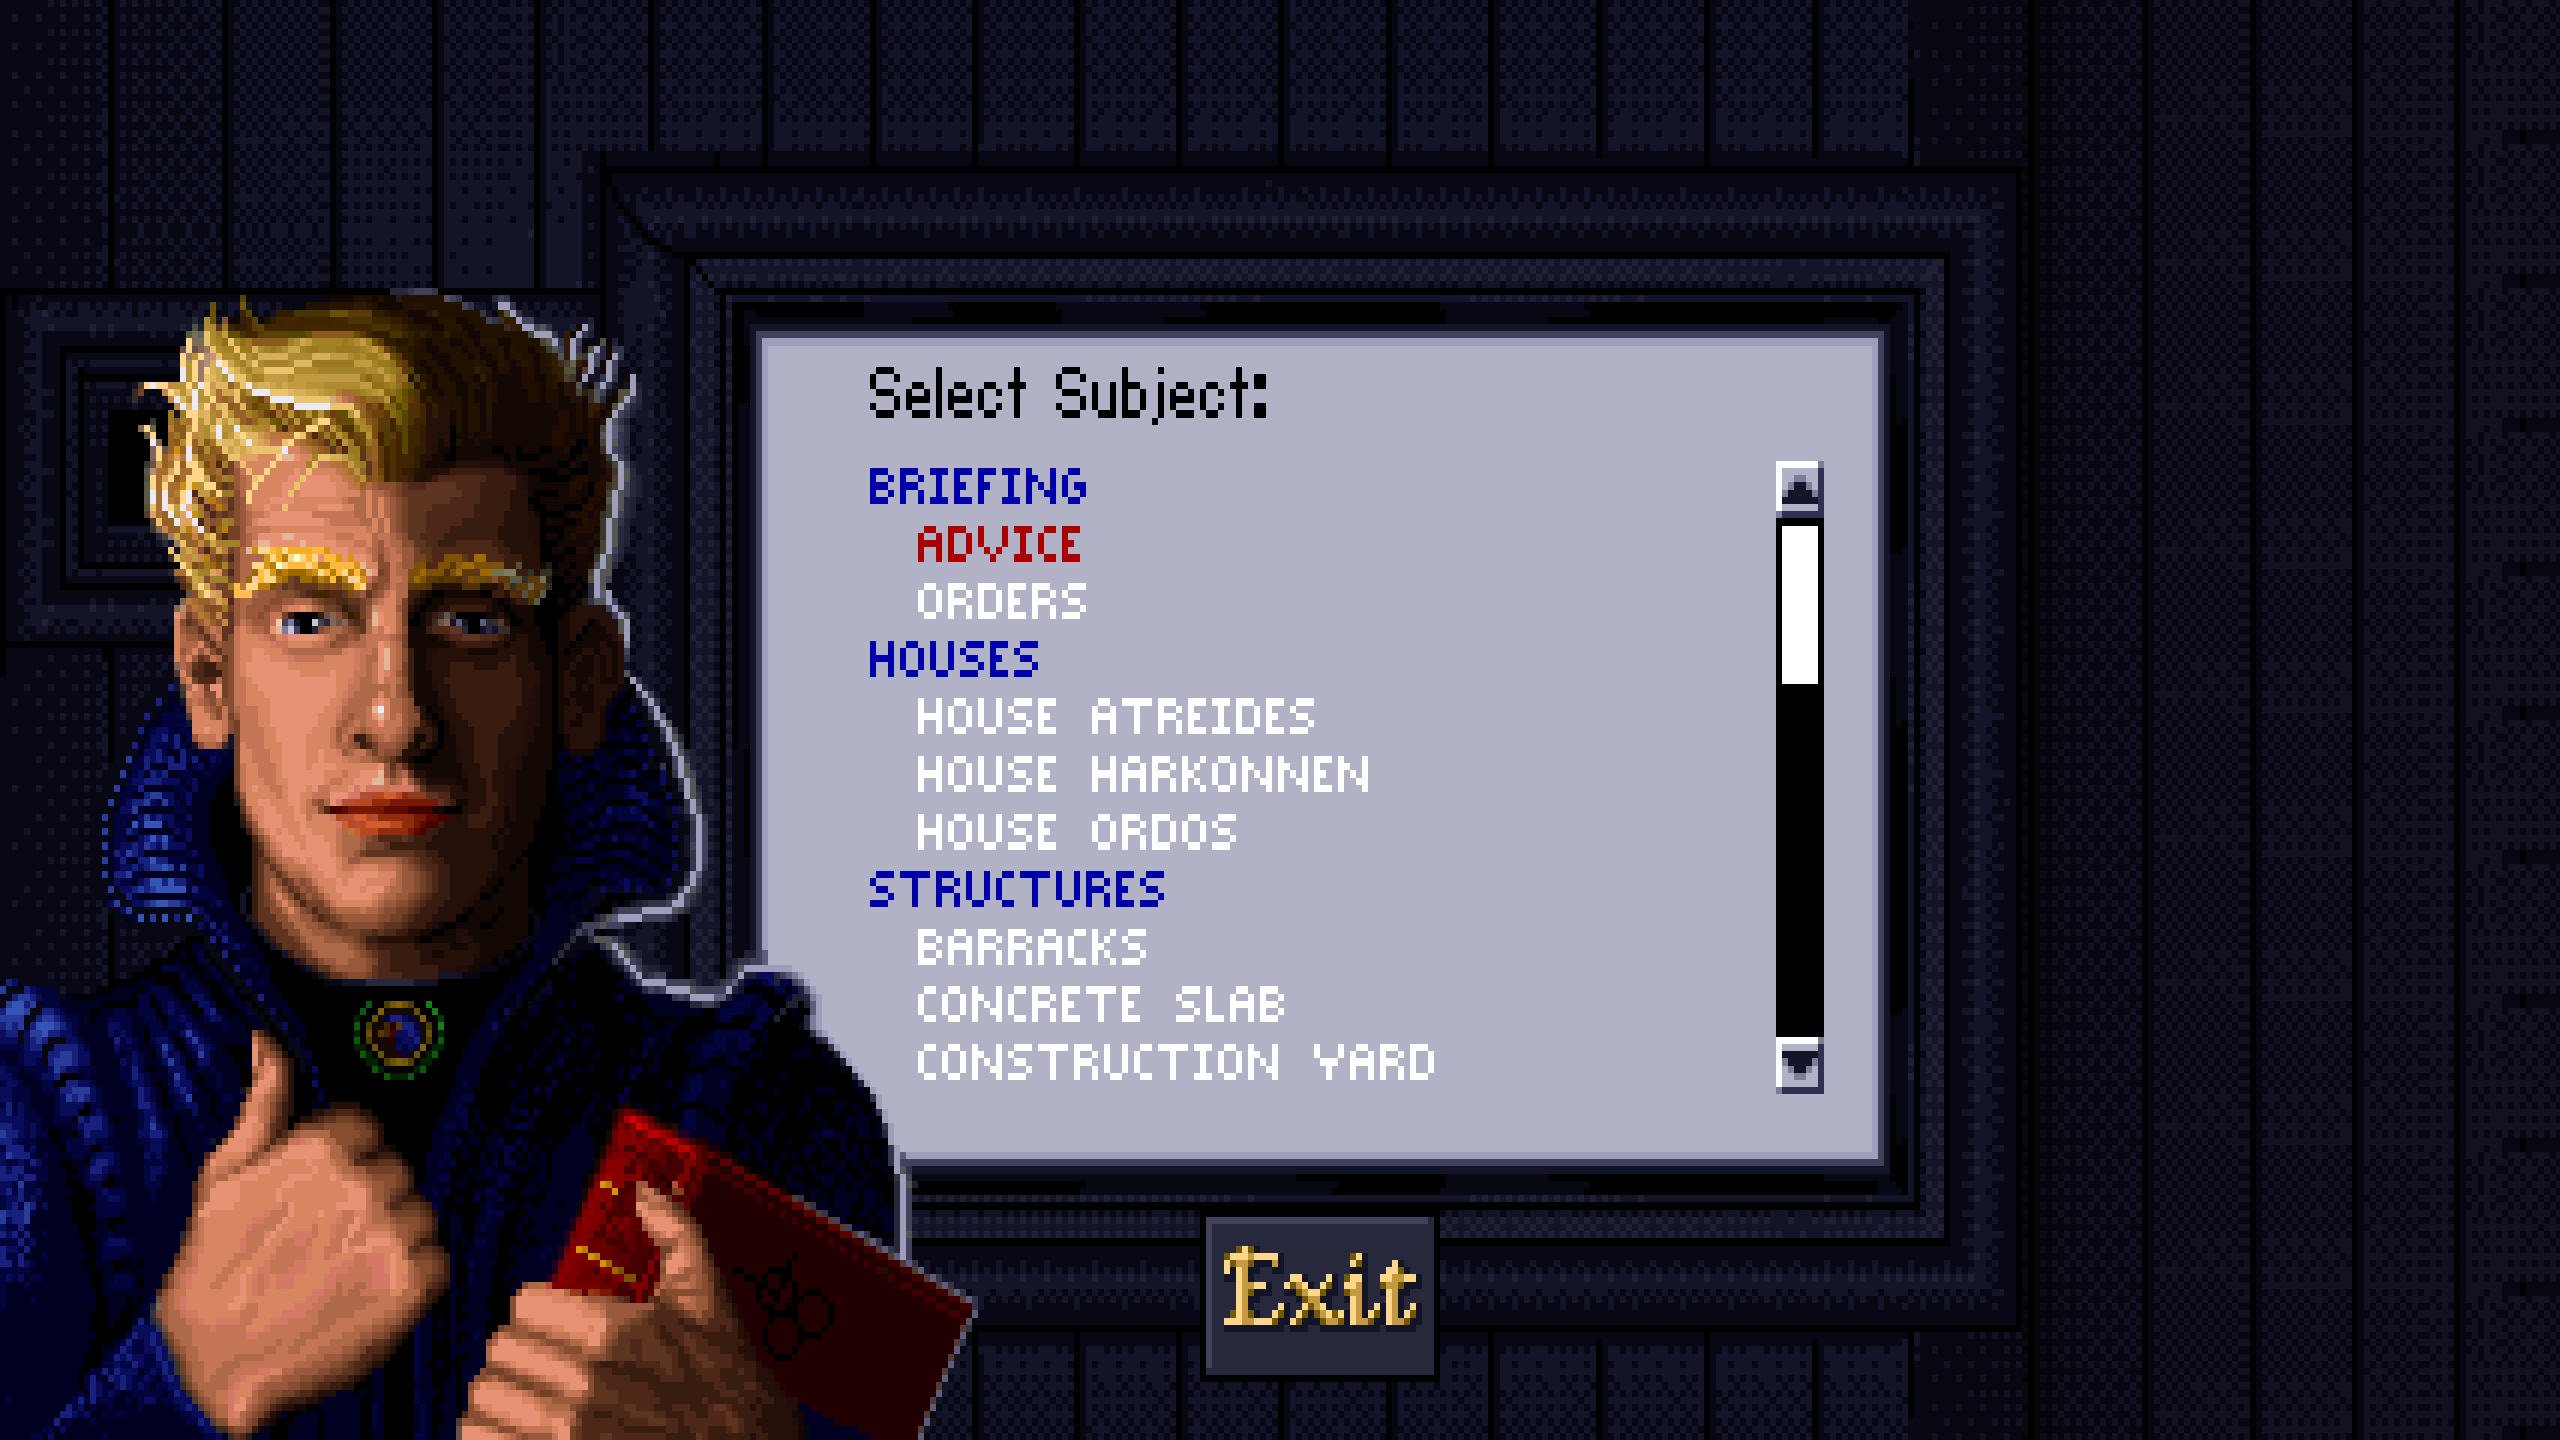
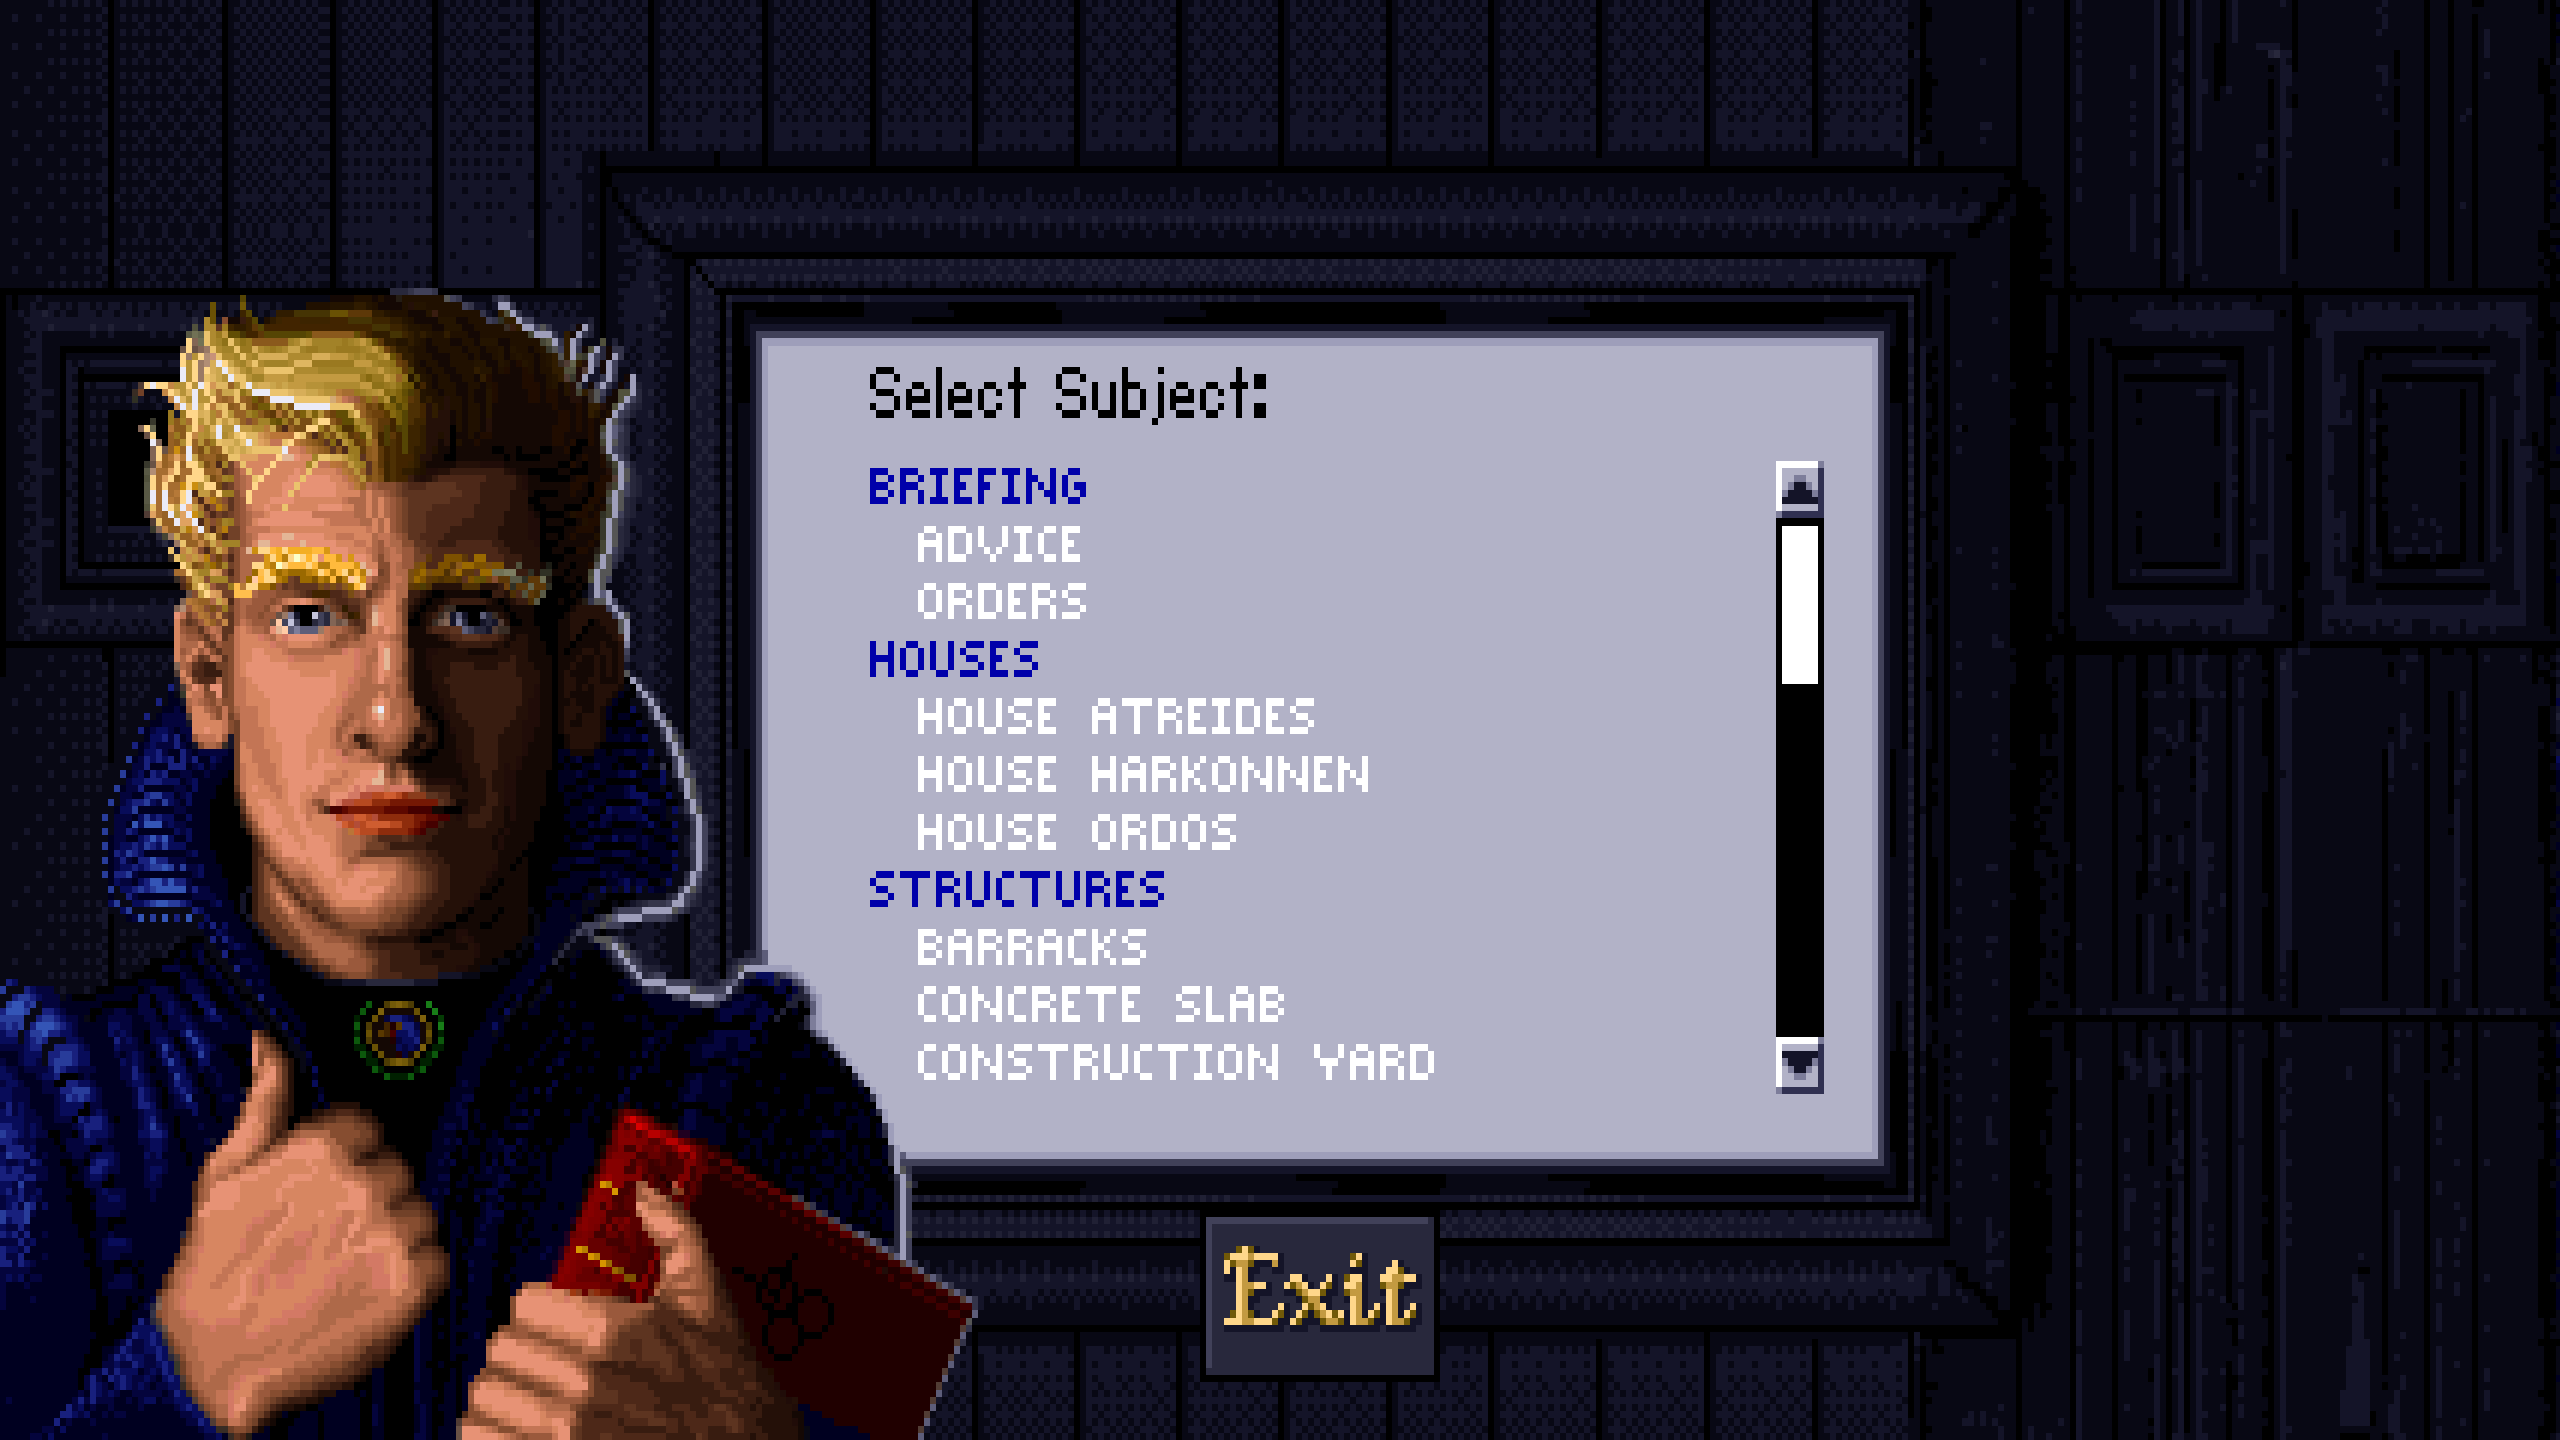
README: widescreen mentat screenshots with the outpainted strips

diff --git a/README.md b/README.md
@@ -50,9 +50,12 @@ __Unit panel__
 
 __Mentat screens__
 
-- On a widescreen window the mentat screens (the in-game Mentat and the mission briefings) are no longer a 4:3 picture in the middle of black bars: the mentat sits at the left, the TV frame that the picture cuts off is completed on the right (the layers of its top and bottom bars are turned into the right bar, with mitred corners), and the rest of the window is filled with the wall pattern. All of it is made while the game runs, from the game's own `MENTAT*.CPS` picture, so nothing is stored or changed. Mentat pictures of custom campaigns that are not laid out like the originals only get the wall. `--test-mentat` takes a screenshot of the in-game Mentat
+- On a widescreen window the mentat screens (the in-game Mentat and the mission briefings) are no longer a 4:3 picture in the middle of black bars: the mentat sits at the left, and the picture is carried on to the right. For the Atreides, Harkonnen, Ordos and Bene Gesserit mentats, a 107 pixel strip in `gfx/widescreen/` (made by outpainting the original picture) completes the TV frame and the wall, which fills a 16:9 window; the original picture itself is drawn untouched. Other mentat pictures, and wider windows beyond the strip, get a TV frame completed from the picture itself (the layers of its top and bottom bars are turned into the right bar, with mitred corners) and the wall pattern. Mentat pictures of custom campaigns that are not laid out like the originals only get the wall. `--test-mentat` takes a screenshot of the in-game Mentat
 
-![Mentat screen on a widescreen window](/docs/fork-mentat-widescreen.png)
+![Mentat screen on a widescreen window, Atreides](/docs/fork-mentat-widescreen.png)
+![Mentat screen on a widescreen window, Harkonnen](/docs/fork-mentat-widescreen-harkonnen.png)
+![Mentat screen on a widescreen window, Ordos](/docs/fork-mentat-widescreen-ordos.png)
+![Mentat screen on a widescreen window, Bene Gesserit](/docs/fork-mentat-widescreen-bene-gesserit.png)
 
 __Controls__
 
